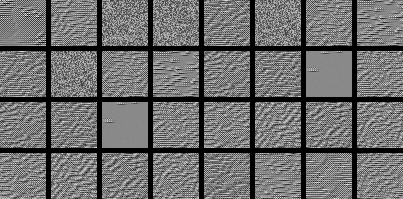
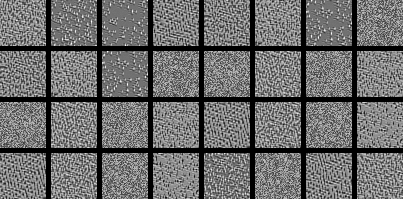
update

diff --git a/edge_detection/cnn.py b/edge_detection/cnn.py
@@ -2,9 +2,13 @@ from keras import models
 from keras import layers
 from keras import regularizers
 from keras_preprocessing import image
+from keras.models import load_model
 import matplotlib.pyplot as plt
 import numpy as np
 import os
+import seaborn as sns
+from sklearn.metrics import confusion_matrix
+
 
 # number of training epochs
 epochs = 50
@@ -44,7 +48,13 @@ if not os.path.exists(weights_dirname):
 weights_filename = 'weights_' + color_model + '_model.npy'
 weights_path = os.path.join(weights_dirname, weights_filename)
 
-def preprocess():
+def preprocess(testgen_class_mode="categorical"):
+
+    # class_mode
+    # "categorical" will be 2D one-hot encoded labels
+    # "binary" will be 1D binary labels
+    # "sparse" will be 1D integer labels
+    # "input" will be images identical to input images (mainly used to work with autoencoders)
 
     train_data_generator = image.ImageDataGenerator(
         rescale=1. / 255,
@@ -82,7 +92,7 @@ def preprocess():
         target_size=tuple(target_size),
         color_mode= color_model,
         batch_size=batch_size,
-        class_mode="categorical"
+        class_mode=testgen_class_mode
     )
 
     return training_generator, validation_generator, test_generator
@@ -104,6 +114,42 @@ def plot_history(history):
     plt.ylabel('Accuracy')
     plt.xlabel('Epoch')
     plt.legend(['Train', 'Validation'], loc='upper left')
+
+    plt.show()
+
+
+def plot_confusion_matrix(model_path, test_generator):
+
+    model = load_model(model_path)
+
+    total_images = test_generator.n
+    steps = total_images // batch_size
+
+    x_test, y_test = [], []
+    for step in range(steps):
+        x_one_batch, y_one_batch = test_generator.next()
+
+        x_test.extend(x_one_batch)
+        y_test.extend(y_one_batch)
+
+    print('X test size:', len(x_test))
+    print('Y test size:', len(y_test))
+
+    # [] to np.array
+    x_test, y_test = np.array(x_test), np.array(y_test)
+
+    y_true = y_test
+    y_pred = model.predict_classes(x_test)
+
+    print('Y true size:', len(y_true))
+    print('Y pred size:', len(y_pred))
+
+    matrix = confusion_matrix(y_true, y_pred)
+    plt.figure(figsize=(5, 5))
+    sns.heatmap(matrix, annot=True, fmt="d")
+    plt.title('Confusion matrix')
+    plt.ylabel('Actual label')
+    plt.xlabel('Predicted label')
 
     plt.show()
 
@@ -183,6 +229,7 @@ def train():
 
     plot_history(history)
 
+    # evaluate by test dataset
     loss, accuracy = model.evaluate_generator(test_generator)
     print('\nTest accuracy:', accuracy)
 
@@ -193,7 +240,7 @@ def train():
     np.save(weights_path, model.get_weights())
 
 
-def predict(genre, img_filename):
+def predict(genre, img_filename, color_model):
 
     datagen = image.ImageDataGenerator(
         rescale=1. / 255
@@ -202,6 +249,7 @@ def predict(genre, img_filename):
     testgen = datagen.flow_from_directory(
         directory=dataset_test_dir_path,
         target_size=tuple(target_size),
+        color_mode=color_model,
         batch_size=batch_size,
         class_mode="categorical"
     )
@@ -212,9 +260,11 @@ def predict(genre, img_filename):
     for i, class_name in enumerate(class_indices):
         class_names.append(class_name)
 
+    print('Class indices:', class_indices)
+
     # load the test image
     img_path = os.path.join(dataset_test_dir_path, genre, img_filename)
-    img = image.load_img(img_path, target_size=tuple(target_size))
+    img = image.load_img(img_path, target_size=tuple(target_size), color_mode=color_model)
     img_array = image.img_to_array(img)
     img_array = img_array.reshape((1,) + img_array.shape)
     img_array = img_array / 255.
@@ -244,9 +294,11 @@ def predict(genre, img_filename):
 if __name__ == "__main__":
 
     # train the model
-    train()
+    # train()
+
+    # plot the confusion matrix
+    # training_generator, validation_generator, test_generator = preprocess(testgen_class_mode="sparse")
+    # plot_confusion_matrix(model_path=model_path, test_generator=test_generator)
 
     # predict the label given the image index
-    # predict('genre', 'mw00001.jpg') # 60% 1700
-    # predict('1600', 'mw00040.jpg') # 60% 1700
-    # predict('1700', 'mw00006.jpg') # 100% bottomwear
+    predict('landscape', '0a8f3033e279b8a7123ae7fe629b611dc.jpg', color_model) # 100% landscape

diff --git a/edge_detection/visualize_activation.py b/edge_detection/visualize_activation.py
@@ -8,9 +8,9 @@ import matplotlib.pyplot as plt
 
 # Our target layer: we will visualize the filters from this layer.
 # See `model.summary()` for list of layer names, if you want to change this.
-num_of_layers = 6
-layer_index = 0
-filter_index = 2
+num_of_layers = 6 # till 'max_pooling2d_1'
+layer_index = 1 # 'separable_conv2d_1'
+filter_index = 5 # 3 or 5
 
 # color channel
 # color_model = 'rgb'
@@ -19,14 +19,13 @@ color_model = 'grayscale'
 # path to the dataset
 dataset_dir_path = os.path.join('data', 'test')
 # portrait
-# img_path = os.path.join(dataset_dir_path, 'portrait', '0a0c3e63b99b27544f2f440d5d967e2ac.jpg')
+img_path = os.path.join(dataset_dir_path, 'portrait', '0a0c3e63b99b27544f2f440d5d967e2ac.jpg')
 # landscape
-img_path = os.path.join(dataset_dir_path, 'landscape', '0a13285ce6b2f9bfe86ac48c278a7878c.jpg')
+# img_path = os.path.join(dataset_dir_path, 'landscape', '0a13285ce6b2f9bfe86ac48c278a7878c.jpg')
 
 # path to the trained models
-model_file_path = os.path.join('model', 'cnn_' + color_model + '_model.h5')
-
-model = load_model(model_file_path)
+model_filename = os.path.join('model', 'cnn_' + color_model + '_model.h5')
+model = load_model(model_filename)
 model.summary()
 
 
@@ -50,8 +49,8 @@ plt.show()
 layer_outputs = [layer.output for layer in model.layers[:num_of_layers]]
 
 # layer names
-# for layer in model.layers:
-#     print(layer.name)
+for layer in model.layers:
+    print(layer.name)
 
 activation_model = models.Model(inputs=model.input, outputs=layer_outputs)
 

diff --git a/edge_detection/visualize_filters.py b/edge_detection/visualize_filters.py
@@ -7,9 +7,9 @@ from tensorflow import keras
 
 # Our target layer: we will visualize the filters from this layer.
 # See `model.summary()` for list of layer names, if you want to change this.
-layer_name = "separable_conv2d"
-num_of_filters = 32
-num_of_rows = 8
+layer_name = "separable_conv2d_1"
+num_of_filters = 64
+num_of_rows = 16
 num_of_cols = 4
 
 # color channel
@@ -26,8 +26,8 @@ img_width = 96
 img_height = 96
 
 # path to the trained models
-model_file_path = os.path.join('model', 'cnn_' + color_model + '_model.h5')
-model = load_model(model_file_path)
+model_filename = os.path.join('model', 'cnn_' + color_model + '_model.h5')
+model = load_model(model_filename)
 model.summary()
 
 # Set up a model that returns the activation values for our target layer

diff --git a/edge_detection/visualize_filter.py b/edge_detection/visualize_filter.py
@@ -7,8 +7,8 @@ from tensorflow import keras
 
 # Our target layer: we will visualize the filters from this layer.
 # See `model.summary()` for list of layer names, if you want to change this.
-layer_name = "separable_conv2d"
-filter_index = 2
+layer_name = "separable_conv2d_1"
+filter_index = 1
 
 # color channel
 # rgb
@@ -24,8 +24,8 @@ img_width = 96
 img_height = 96
 
 # path to the trained models
-model_file_path = os.path.join('model', 'cnn_' + color_model + '_model.h5')
-model = load_model(model_file_path)
+model_filename = os.path.join('model', 'cnn_' + color_model + '_model.h5')
+model = load_model(model_filename)
 model.summary()
 
 # Set up a model that returns the activation values for our target layer

diff --git a/edge_detection/visualize_heatmap.py b/edge_detection/visualize_heatmap.py
@@ -18,9 +18,8 @@ dataset_dir_path = os.path.join('data', 'test')
 img_path = os.path.join(dataset_dir_path, 'portrait', '0a0c3e63b99b27544f2f440d5d967e2ac.jpg')
 
 # path to the trained models
-model_file_path = os.path.join('model', 'cnn_model.h5')
-
-model = load_model(model_file_path)
+model_filename = os.path.join('model', 'cnn_model.h5')
+model = load_model(model_filename)
 model.summary()
 
 # load the image tensor

diff --git a/edge_detection/README.md b/edge_detection/README.md
@@ -14,14 +14,43 @@
 
 ## CNN
 
+### Model
+
 The CNN model trained to classify portraits and landscapes reaches 0.96 test accuracy with:
 * Training data: 13000 landscapes + 13000 portraits (0.2 validation split)
 * Test data: 2000 landscapes + 2000 portraits
 
 <p float="left">
-    <img src="./pix/cnn_accuracy.png" width="400" />
-    <img src="./pix/cnn_loss.png" width="400" />
+    <img src="pix/cnn_accuracy_rgb.png" width="400" />
+    <img src="pix/cnn_loss_rgb.png" width="400" />
+</p>
+
+### Filter
+
+The filter of the second convolutional layer is shown below:
+
+<p float="left">
+    <img src="pix/separable_conv2d_1_stiched_filters_grayscale.png" width="800" />
+</p>
+
+### Activation
+
+The activations of filter index 3 and 5 of the second convolutional layer are shown below for landscape:
+
+<p float="left">
+    <img src="pix/landscape_tensor.png" width="300" />
+    <img src="pix/landscape_conv2d_1_filter_3.png" width="300" />
+    <img src="pix/landscape_conv2d_1_filter_5.png" width="300" />
+</p>
+
+The activations of filter index 3 and 5 of the second convolutional layer are shown below for portrait:
+
+<p float="left">
+    <img src="pix/portrait_tensor.png" width="300" />
+    <img src="pix/portrait_conv2d_1_filter_3.png" width="300" />
+    <img src="pix/portrait_conv2d_1_filter_5.png" width="300" />
 </p>
 
 ## References
 * https://opencv-python-tutroals.readthedocs.io/en/latest/py_tutorials/py_imgproc/py_canny/py_canny.html
+* https://scikit-image.org/docs/dev/api/skimage.filters.html
